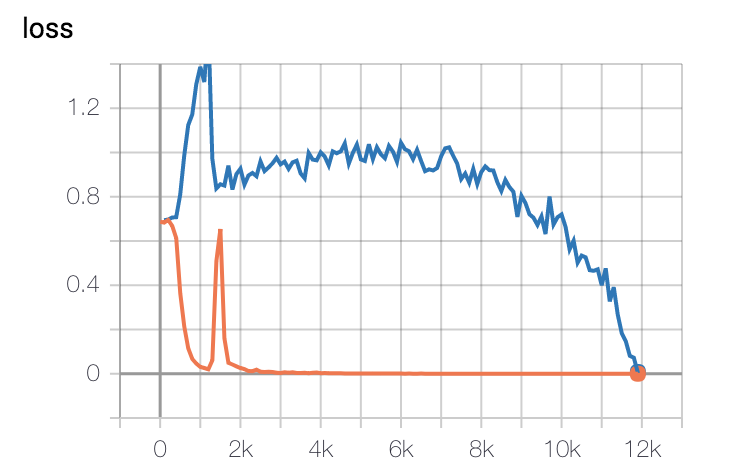
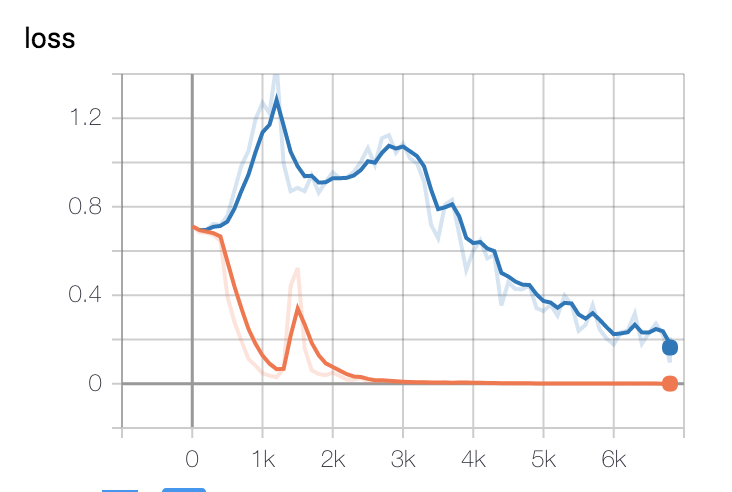
use less lstm units

diff --git a/xor_parity.py b/xor_parity.py
@@ -13,7 +13,7 @@ tf.logging.set_verbosity(tf.logging.INFO)
 print(tf.__version__)
 
 BATCH_SIZE = 8
-RNN_UNITS = 24
+RNN_UNITS = 20
 WARMUP = 10000
 BITS_MAX_LENGTH = 50
 DATASET_SIZE = 100000
